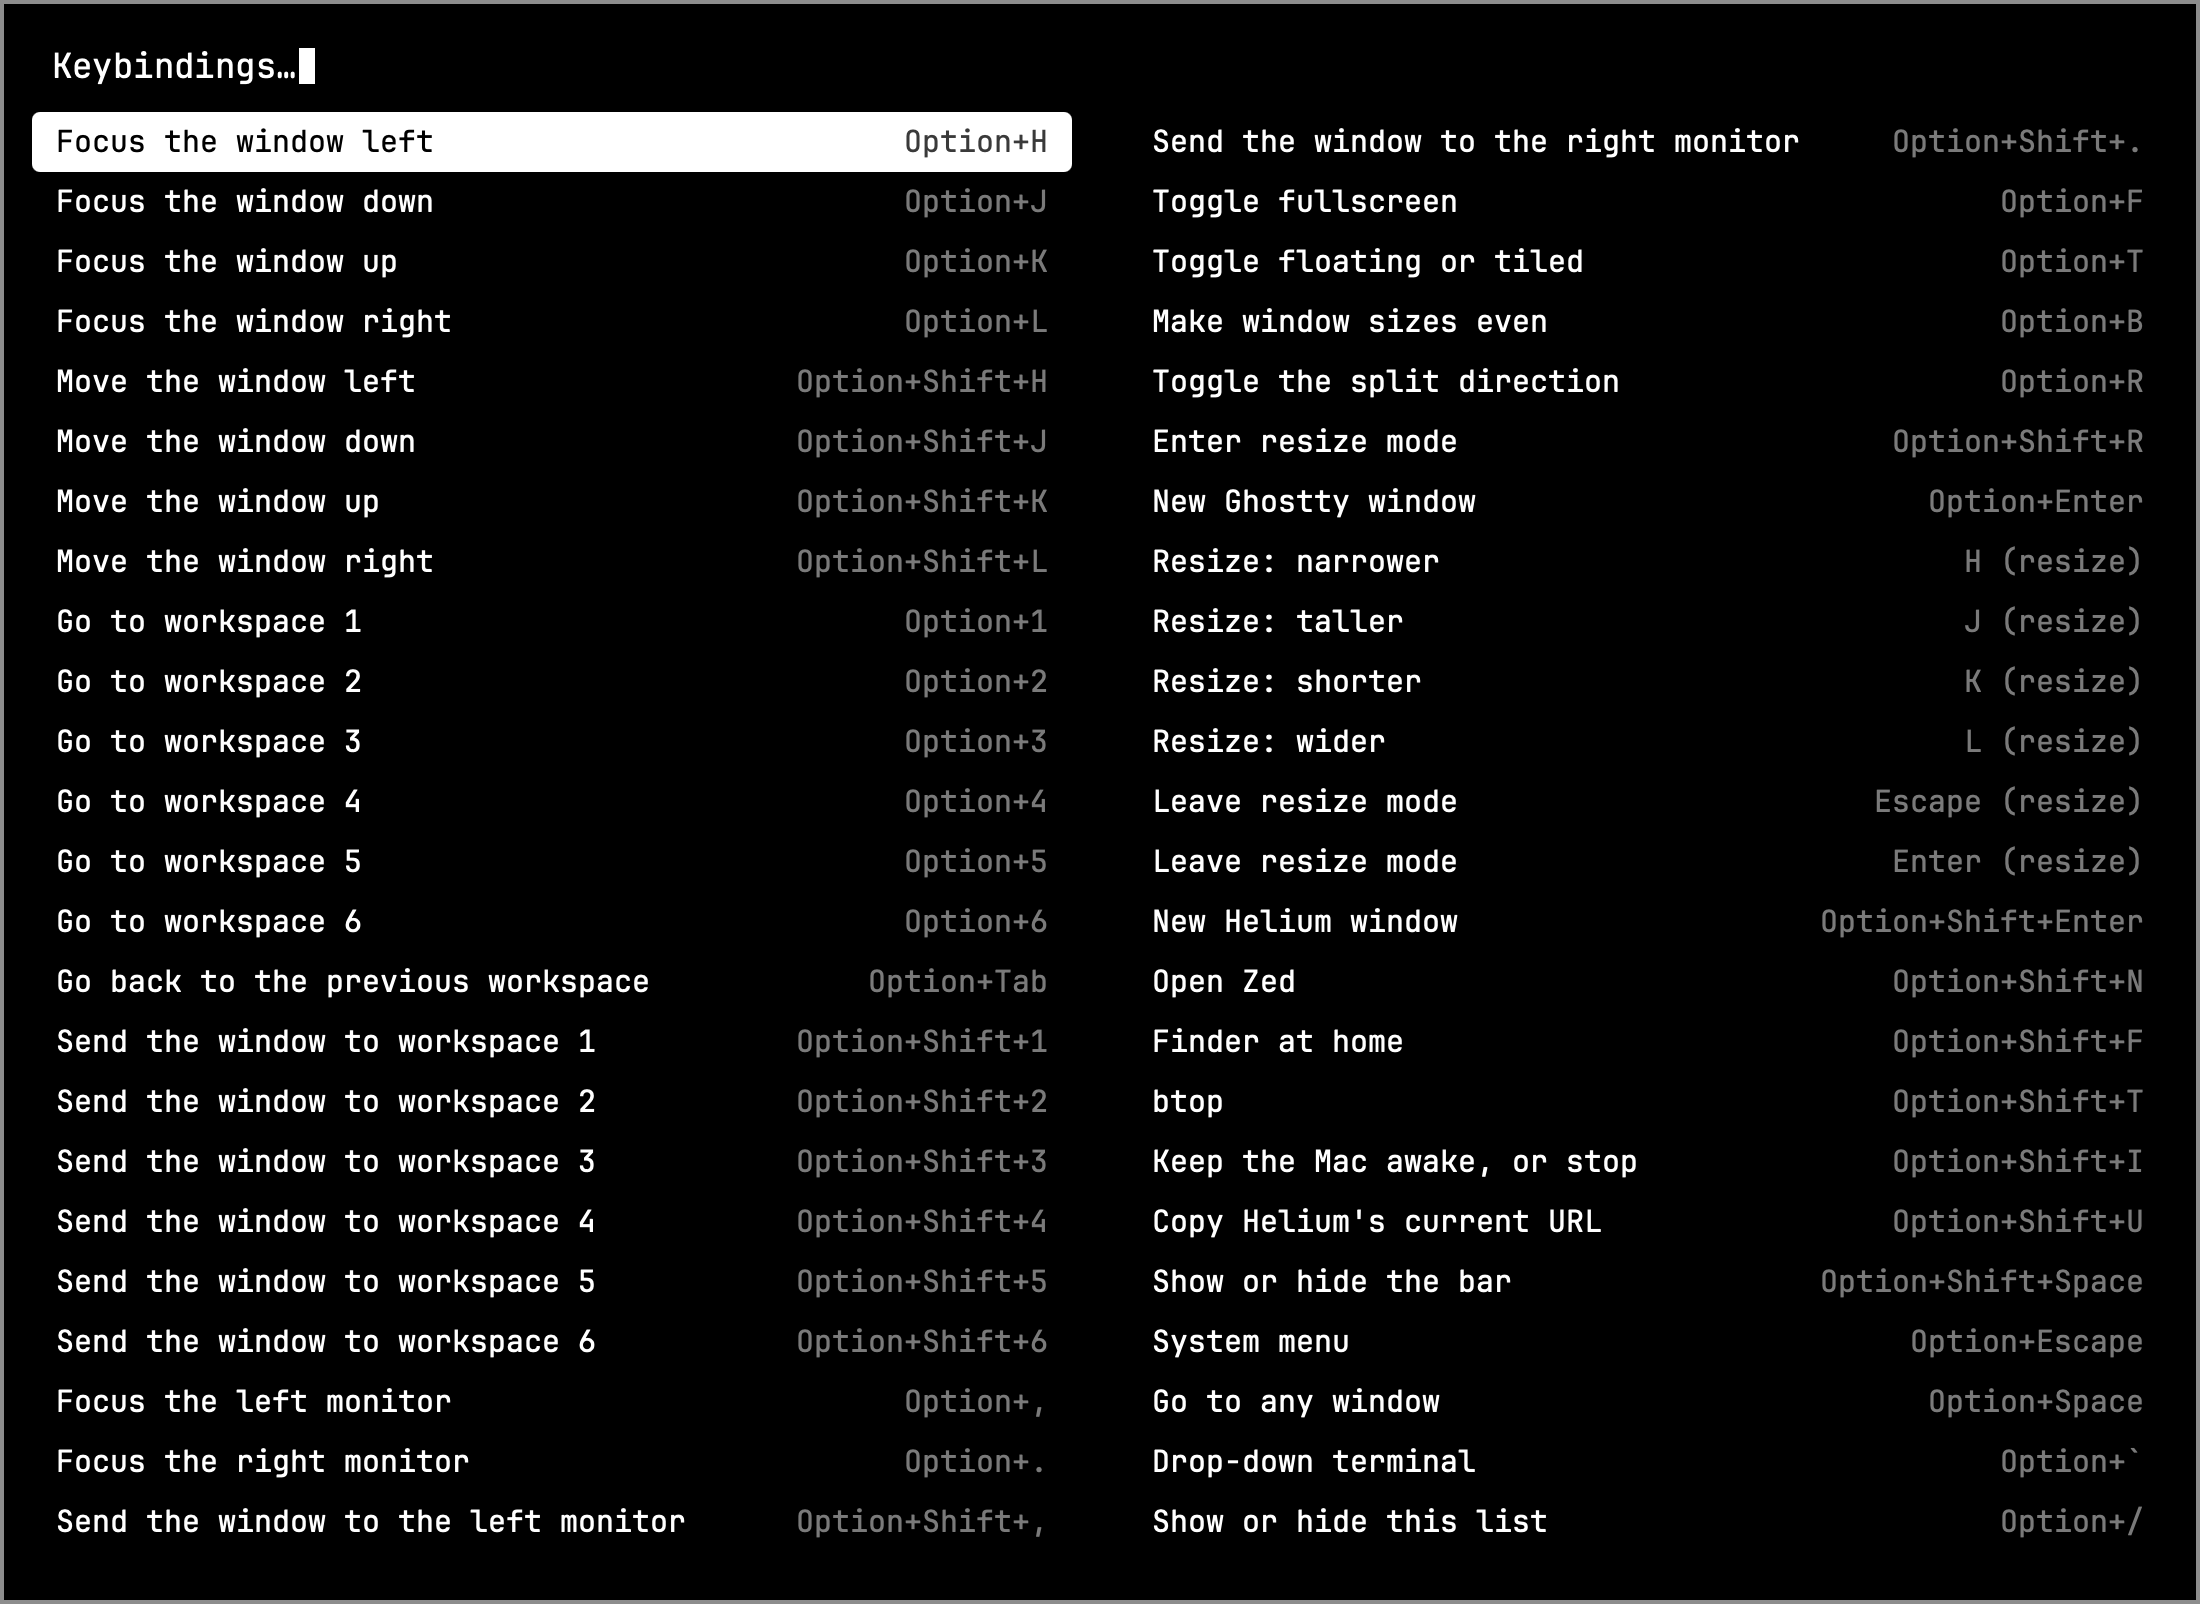
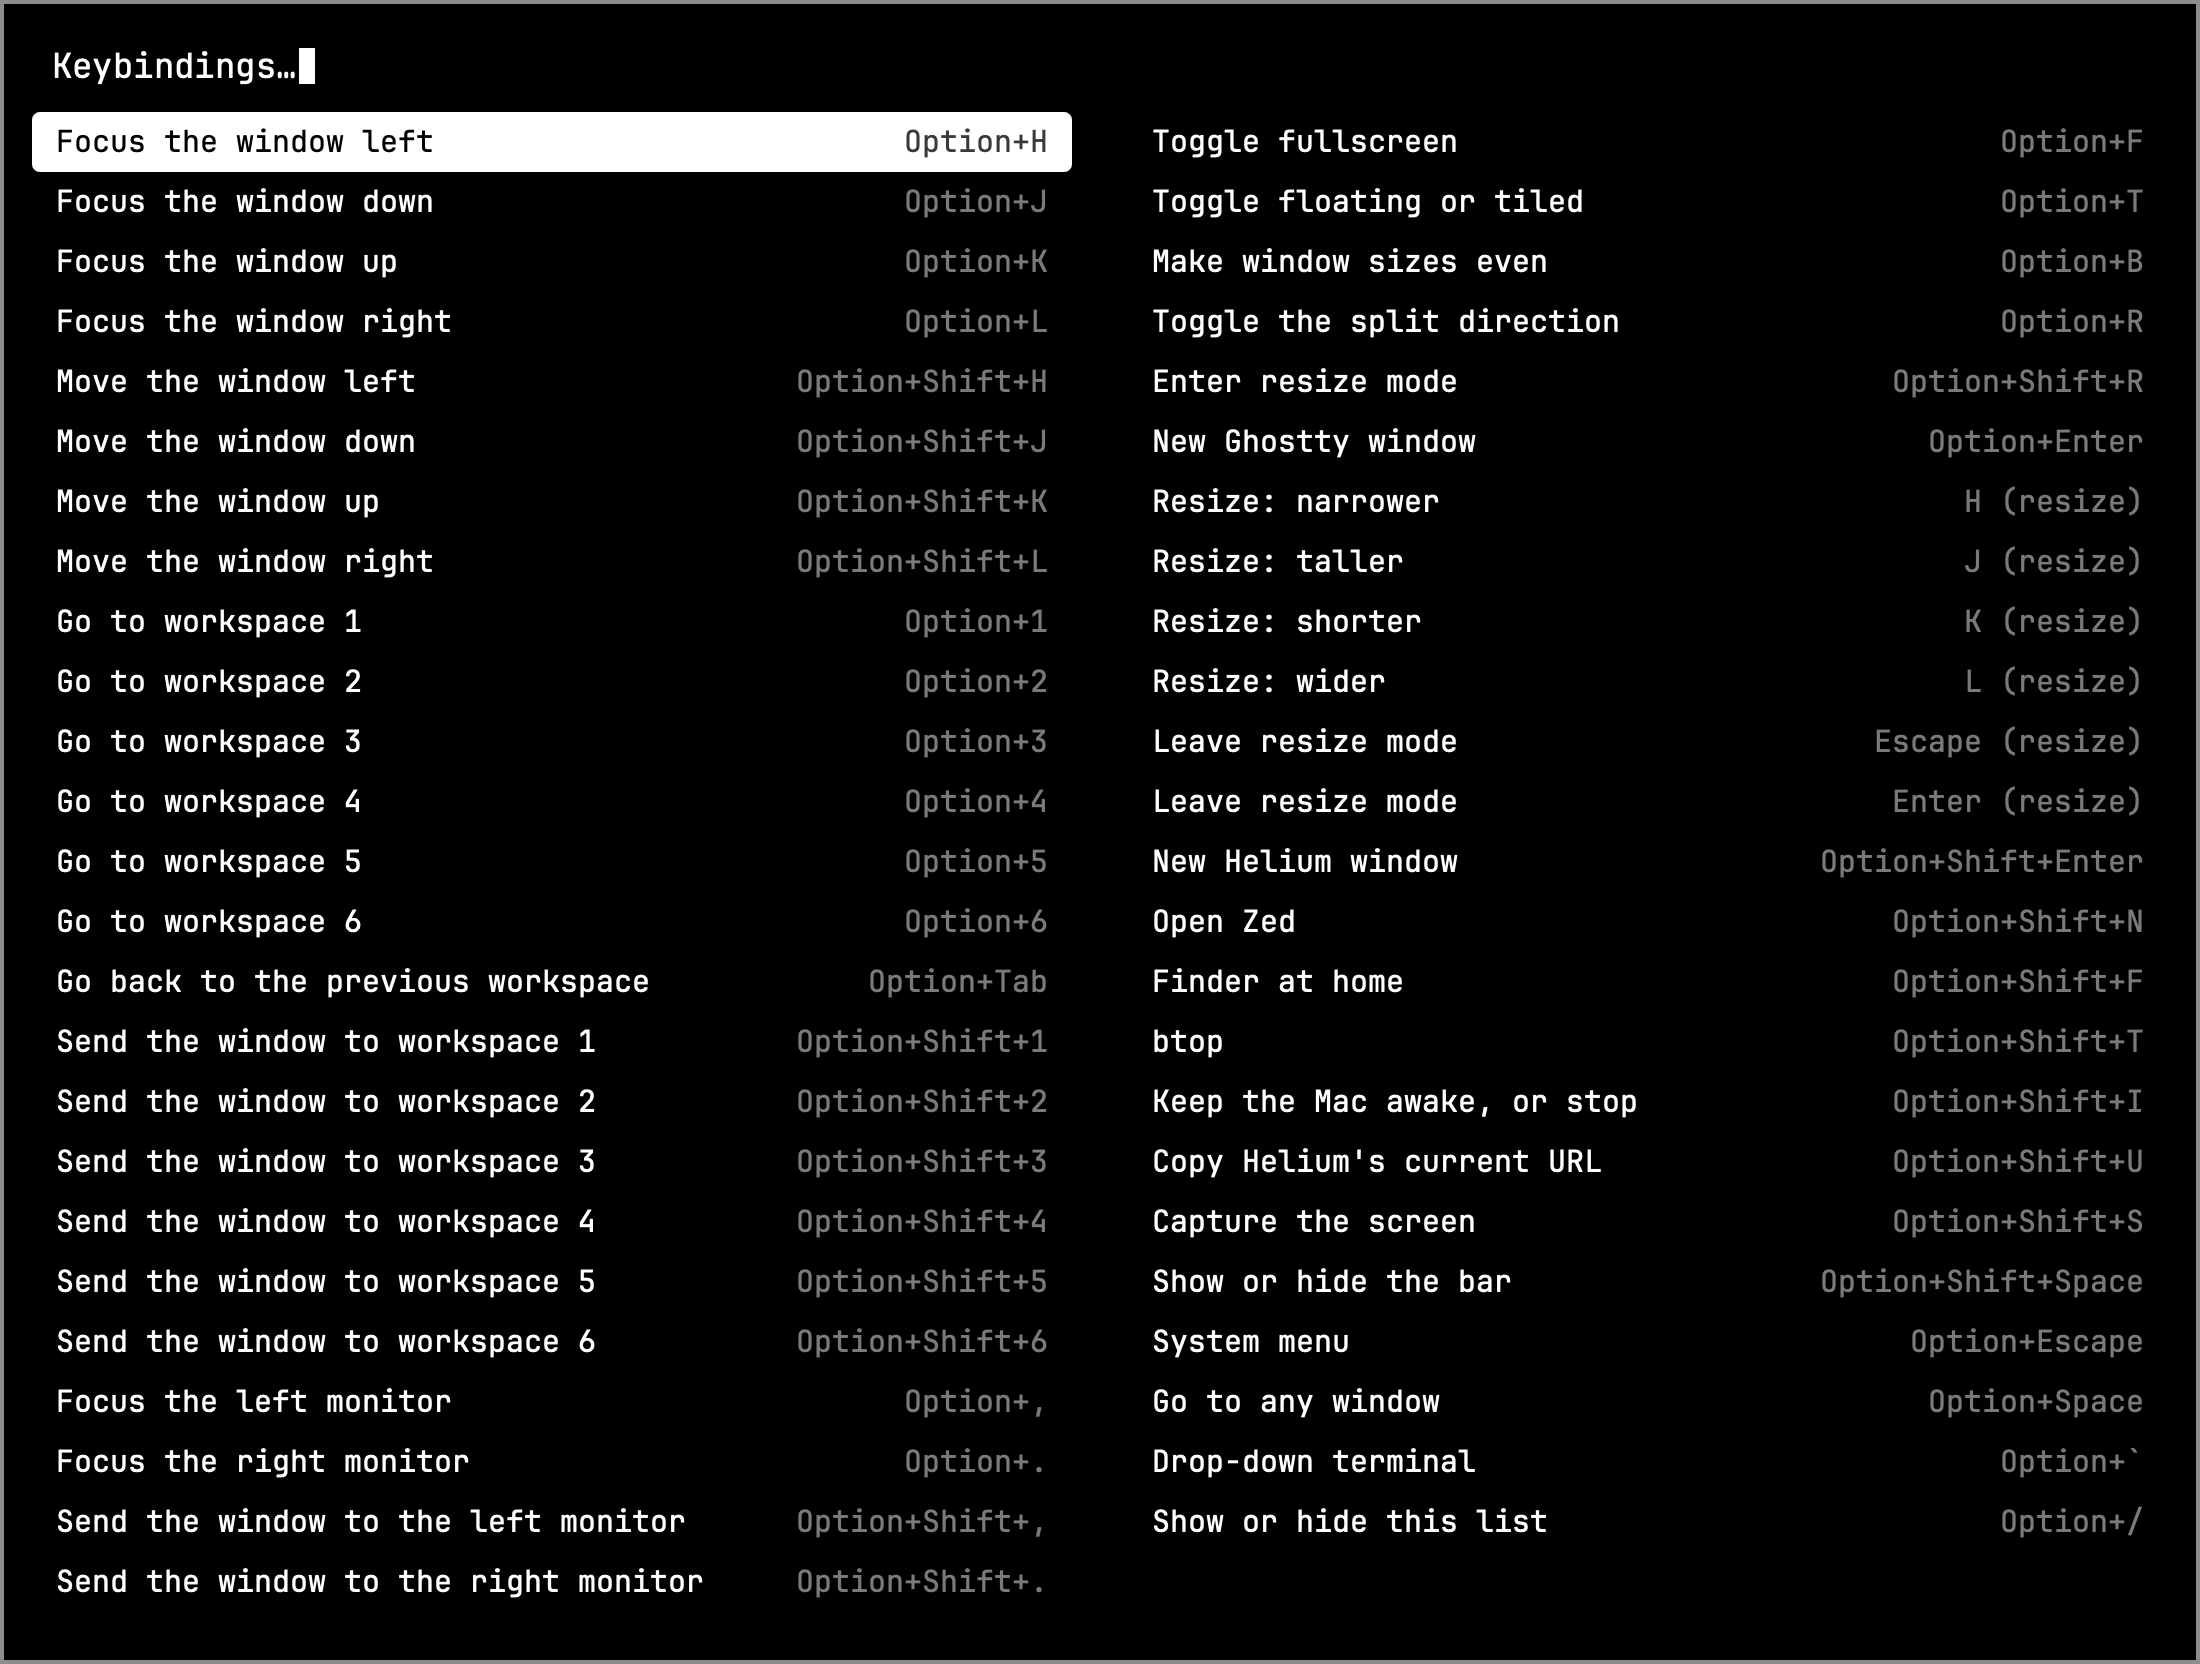
feat: add Option+Shift+S capture menu

Changed region(s): [[0.0, 0.0312, 0.4945, 0.9663], [0.5255, 0.0623, 0.8036, 0.9663], [0.8345, 0.0623, 0.9891, 0.9663]]

diff --git a/hammerspoon/.hammerspoon/capture.swift b/hammerspoon/.hammerspoon/capture.swift
@@ -1,0 +1,49 @@
+// Helper for capture.sh. Built with swiftc on first use.
+//   capture ocr <image>   prints the text found in the image, one line per text line
+//   capture color         shows the macOS color sampler and prints the pick as #RRGGBB
+// Exits non-zero when nothing is found or the sampler is cancelled.
+
+import AppKit
+import Vision
+
+func readText(at path: String) -> Int32 {
+  guard let image = NSImage(contentsOfFile: path),
+        let picture = image.cgImage(forProposedRect: nil, context: nil, hints: nil) else { return 1 }
+  let request = VNRecognizeTextRequest()
+  request.recognitionLevel = .accurate
+  request.usesLanguageCorrection = true
+  request.automaticallyDetectsLanguage = true
+  try? VNImageRequestHandler(cgImage: picture).perform([request])
+  let lines = (request.results ?? []).compactMap { $0.topCandidates(1).first?.string }
+  guard !lines.isEmpty else { return 1 }
+  print(lines.joined(separator: "\n"))
+  return 0
+}
+
+func pickColor() -> Int32 {
+  let app = NSApplication.shared
+  app.setActivationPolicy(.accessory)
+  var status: Int32 = 1
+  NSColorSampler().show { picked in
+    if let color = picked?.usingColorSpace(.sRGB) {
+      let channel = { (value: CGFloat) in Int((value * 255).rounded()) }
+      print(String(format: "#%02X%02X%02X", channel(color.redComponent), channel(color.greenComponent), channel(color.blueComponent)))
+      status = 0
+    }
+    app.stop(nil)
+    // stop only takes effect after another event, so post one.
+    app.postEvent(NSEvent.otherEvent(with: .applicationDefined, location: .zero, modifierFlags: [], timestamp: 0,
+                                     windowNumber: 0, context: nil, subtype: 0, data1: 0, data2: 0)!, atStart: true)
+  }
+  app.run()
+  return status
+}
+
+let arguments = CommandLine.arguments
+switch arguments.count > 1 ? arguments[1] : "" {
+case "ocr" where arguments.count > 2: exit(readText(at: arguments[2]))
+case "color": exit(pickColor())
+default:
+  FileHandle.standardError.write("usage: capture ocr <image> | capture color\n".data(using: .utf8)!)
+  exit(2)
+}

diff --git a/tests/config_contract_test.py b/tests/config_contract_test.py
@@ -192,6 +192,9 @@ class ConfigContract(unittest.TestCase):
     def test_should_bind_option_space_in_hammerspoon(self) -> None:
         self.assertIn("alt-space", hammerspoon_keys())
 
+    def test_should_bind_option_shift_s_in_hammerspoon(self) -> None:
+        self.assertIn("alt-shift-s", hammerspoon_keys())
+
     def test_should_subscribe_every_workspace_item_to_scrolling(self) -> None:
         source = (REPO / "sketchybar/.config/sketchybar/sketchybarrc").read_text(encoding="utf-8")
         self.assertIn('--subscribe "space.$number" mouse.scrolled', source)

diff --git a/README.md b/README.md
@@ -23,6 +23,7 @@ Each folder is a GNU Stow package, linked into `$HOME`.
 
 - Homebrew and `stow`, which `install.sh` checks for.
 - `jq`, used by the Claude usage item.
+- Xcode's Command Line Tools, for `swiftc`, used by the capture menu's text and color items.
 - The JetBrainsMono Nerd Font, in both the Mono and Propo variants.
 - The apps the keys and workspaces expect: Ghostty, Hammerspoon, Zed, Helium, Neovim and btop.
 
@@ -102,6 +103,7 @@ Option+Space lists every open window, with its app and workspace. Type to filter
 | Option+` | Drop-down terminal | Over the current workspace |
 | Option+Shift+I | Keep the Mac awake, or stop | |
 | Option+Shift+U | Copy Helium's current URL | |
+| Option+Shift+S | Open the [capture menu](#capture-menu) | |
 | Option+Shift+Space | Show or hide the bar | |
 | Option+Escape | Open the [system menu](#system-menu) | |
 | Option+/ | Show or hide the key list | |
@@ -162,6 +164,24 @@ Option+Escape opens a menu modeled on Omarchy's: a card whose title is also a se
 Type to filter, Up and Down to move, Enter or Right to pick, Left or Backspace to go back, and Escape or a click elsewhere to close.
 
 Scripts can open the menu, the key list, the calendar and the window list with `hs -c 'omvToggleSystemMenu()'`, `hs -c 'omvToggleKeyList()'`, `hs -c 'omvToggleCalendar()'` and `hs -c 'omvToggleWindows()'`.
+
+## Capture menu
+
+Option+Shift+S opens a card for screen captures:
+
+| Item | Does |
+|---|---|
+| Region to clipboard | Select an area, copy it as a picture |
+| Region to file | Select an area, save it to the Desktop, named like macOS's own screenshots |
+| Window to clipboard | Click a window, copy it |
+| Screen to clipboard | Copy the whole screen |
+| Text from screen | Select an area, copy the text in it, read by macOS's Vision framework |
+| Pick a color | Click anywhere, copy its color as `#RRGGBB` |
+
+<img src="docs/capture.png" alt="The capture menu" width="320">
+
+- The first capture asks you to give Hammerspoon Screen Recording, in System Settings > Privacy & Security > Screen & System Audio Recording. Every item except Pick a color needs it.
+- Text and color use a small Swift helper, `capture.swift`. It's built with `swiftc` the first time you use one of them, which takes a few seconds, and kept in `~/.cache/omv/capture`. `swiftc` comes with Xcode's Command Line Tools.
 
 ## The bar
 
